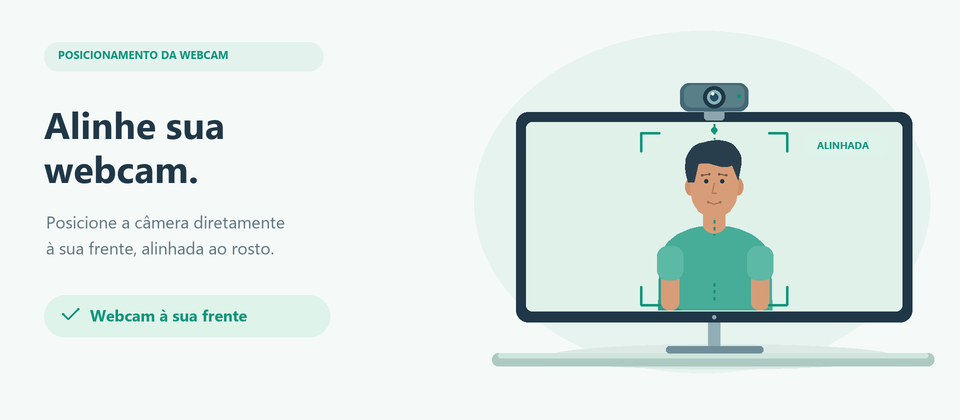
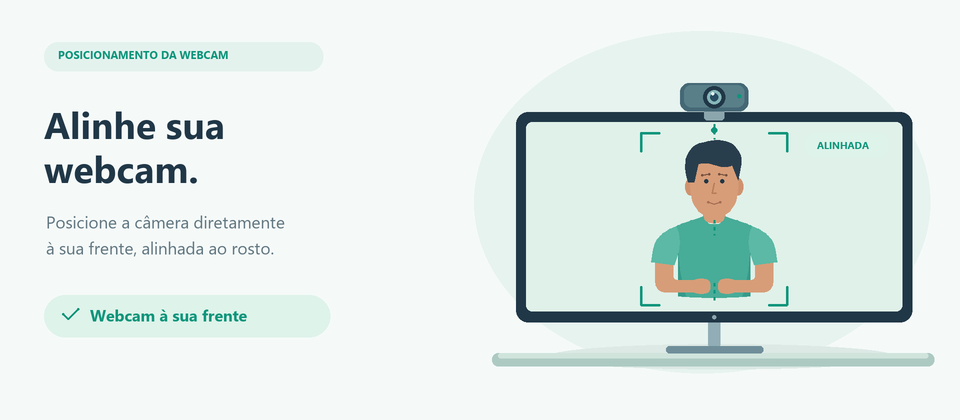
feat: usar novo desenho do personagem na animação da webcam

Changed region(s): [[0.6562, 0.4952, 0.8125, 0.7429]]

diff --git a/scripts/generate_calibration_webcam.py b/scripts/generate_calibration_webcam.py
@@ -1,8 +1,16 @@
+"""Generate the webcam calibration GIF with a continuous shoulder silhouette.
+
+Run: python scripts/generate_calibration_webcam.py
+Requires Pillow and generate_calibration_chair.py in the same directory.
+"""
+
 from pathlib import Path
 
 from PIL import Image
 
-from generate_calibration_chair import BG, Canvas, GREEN, HEIGHT, INK, MUTED, SKIN, WIDTH, check, ease
+from generate_calibration_chair import (
+    BG, Canvas, GREEN, HEIGHT, INK, MUTED, SKIN, WIDTH, check, ease,
+)
 
 
 FACE_CENTER_X = 714
@@ -11,23 +19,95 @@ OUTPUT = Path(__file__).resolve().parents[1] / "src" / "assets" / "calibration"
 
 
 def draw_portrait(canvas):
-    # A frontal preview makes the relationship between face and camera clear.
-    canvas.box((703, 207, 725, 239), SKIN, 6)
+    """Draw a centered adult with connected shoulders and relaxed forearms.
+
+    Both sides share mirrored geometry. Arms sit behind the shirt, whose
+    single outline contains the shoulders and sleeves without capsule caps.
+    Coordinates use the existing Canvas API and the original portrait scale.
+    """
+    shirt = "#47ac98"
+    shirt_shadow = "#359a89"
+    shirt_light = "#5bb9a5"
+    skin_shadow = "#c58b68"
+
+    def mirrored(commands):
+        return [
+            (command[0], *(
+                2 * FACE_CENTER_X - value if index % 2 == 0 else value
+                for index, value in enumerate(command[1:])
+            ))
+            for command in commands
+        ]
+
+    # Upper arms emerge from the cuffs; elbows and wrists share a baseline.
+    # A filled outline gives a smooth elbow without a circular end cap.
+    arm = [
+        ("M", 655, 256), ("L", 673, 257), ("L", 673, 276),
+        ("C", 673, 279, 675, 280, 678, 280),
+        ("L", 694, 280), ("L", 694, 292), ("L", 666, 292),
+        ("C", 658, 292, 655, 287, 655, 280),
+        ("L", 655, 256),
+    ]
+    for commands in (arm, mirrored(arm)):
+        canvas.path(commands, SKIN)
+
+    # Neck is shorter and visibly supported by the neckline and trapezius.
     canvas.path([
-        ("M", 658, 310), ("L", 659, 268),
-        ("C", 659, 242, 677, 230, 702, 226),
-        ("C", 707, 236, 721, 236, 726, 226),
-        ("C", 751, 230, 771, 242, 771, 268),
-        ("L", 772, 310),
-    ], "#47ac98")
+        ("M", 704, 198), ("L", 724, 198), ("L", 725, 217),
+        ("C", 724, 225, 704, 225, 703, 217),
+        ("L", 704, 198),
+    ], SKIN)
     canvas.path([
-        ("M", 659, 268), ("C", 663, 285, 667, 301, 681, 310),
-        ("L", 658, 310),
-    ], "#359a89")
-    canvas.box((661, 268, 679, 310), SKIN, 8)
-    canvas.box((751, 268, 769, 310), SKIN, 8)
-    canvas.box((657, 246, 683, 280), "#5bb9a5", 10)
-    canvas.box((747, 246, 773, 280), "#5bb9a5", 10)
+        ("M", 704, 201), ("C", 710, 207, 718, 209, 724, 202),
+        ("L", 724, 208), ("C", 718, 213, 709, 212, 704, 208),
+    ], skin_shadow)
+
+    # ONE silhouette: neckline -> sloping shoulders -> sleeves -> torso.
+    # The shoulder starts at the neck instead of a separate rounded sleeve.
+    canvas.path([
+        ("M", 703, 216),
+        ("C", 696, 219, 686, 221, 676, 226),
+        ("C", 662, 231, 655, 239, 653, 249),
+        ("L", 651, 262), ("L", 674, 265),
+        ("L", 678, 253), ("L", 678, 296),
+        ("C", 700, 298, 728, 298, 750, 296),
+        ("L", 750, 253), ("L", 754, 265),
+        ("L", 777, 262), ("L", 775, 249),
+        ("C", 773, 239, 766, 231, 752, 226),
+        ("C", 742, 221, 732, 219, 725, 216),
+        ("C", 723, 227, 705, 227, 703, 216),
+    ], shirt)
+
+    # Subtle sleeve shading follows the shoulder slope, without a hard cap.
+    sleeve = [
+        ("M", 676, 226),
+        ("C", 662, 231, 655, 239, 653, 249),
+        ("L", 651, 262), ("L", 674, 265),
+        ("L", 678, 253),
+        ("C", 680, 244, 680, 234, 676, 226),
+    ]
+    for commands in (sleeve, mirrored(sleeve)):
+        canvas.path(commands, shirt_light)
+
+    # Soft folds remain inside the torso and do not split the shoulders.
+    fold = [
+        ("M", 678, 253), ("C", 679, 267, 681, 284, 686, 296),
+        ("L", 678, 296), ("L", 678, 253),
+    ]
+
+    for commands in (fold, mirrored(fold)):
+        canvas.path(commands, shirt_shadow)
+
+    # Forearms and hands rest in front of the shirt, connected to both elbows.
+    forearm = [
+        ("M", 666, 280), ("L", 694, 280),
+        ("C", 698, 278, 704, 278, 708, 280),
+        ("C", 711, 282, 711, 290, 708, 292),
+        ("C", 704, 294, 698, 294, 694, 292),
+        ("L", 666, 292),
+    ]
+    for commands in (forearm, mirrored(forearm)):
+        canvas.path(commands, SKIN)
 
     canvas.ellipse((685, 178, 695, 195), "#d0926e")
     canvas.ellipse((733, 178, 743, 195), "#d0926e")
